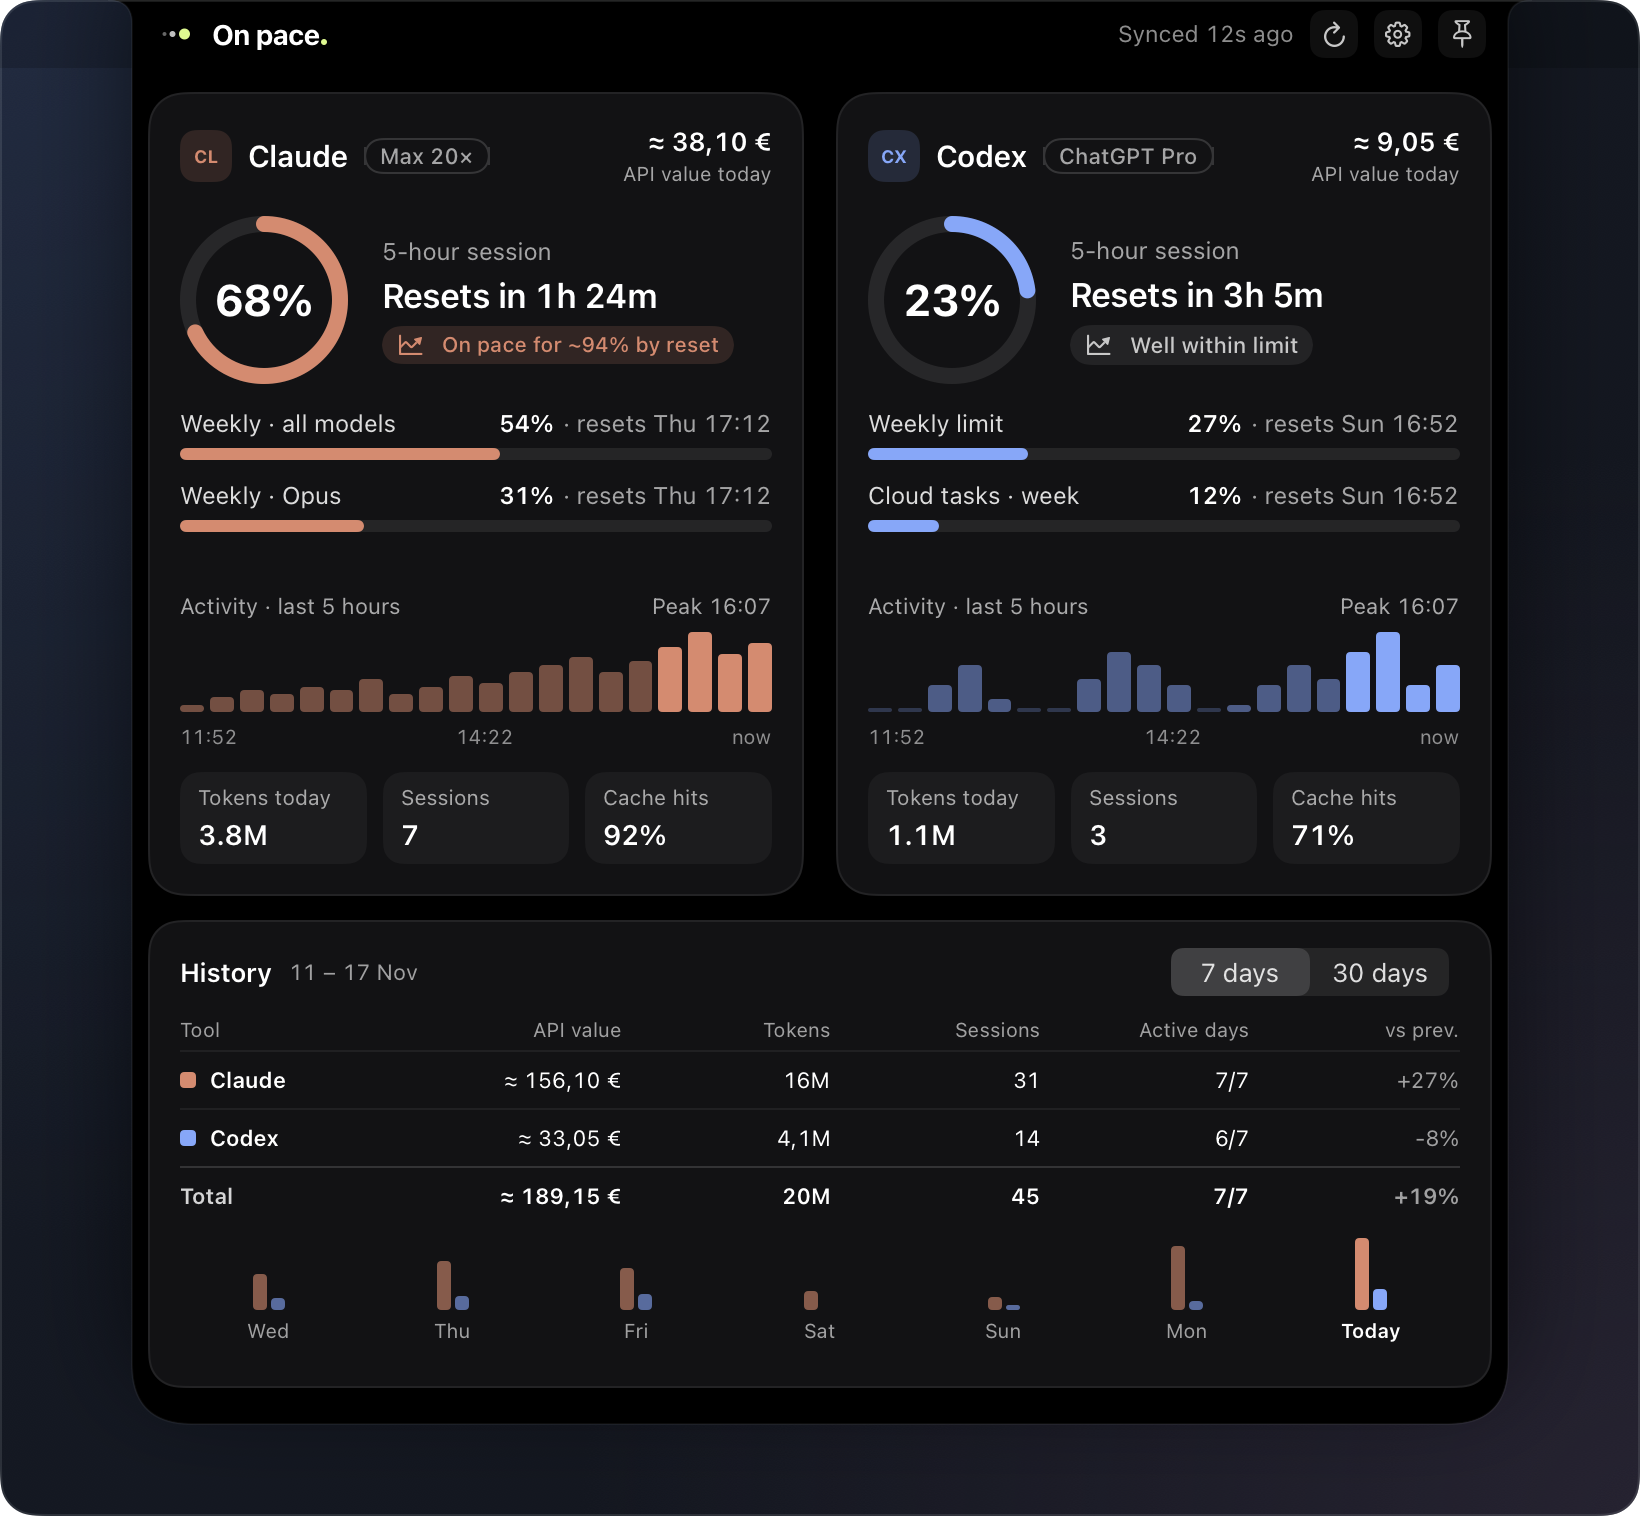
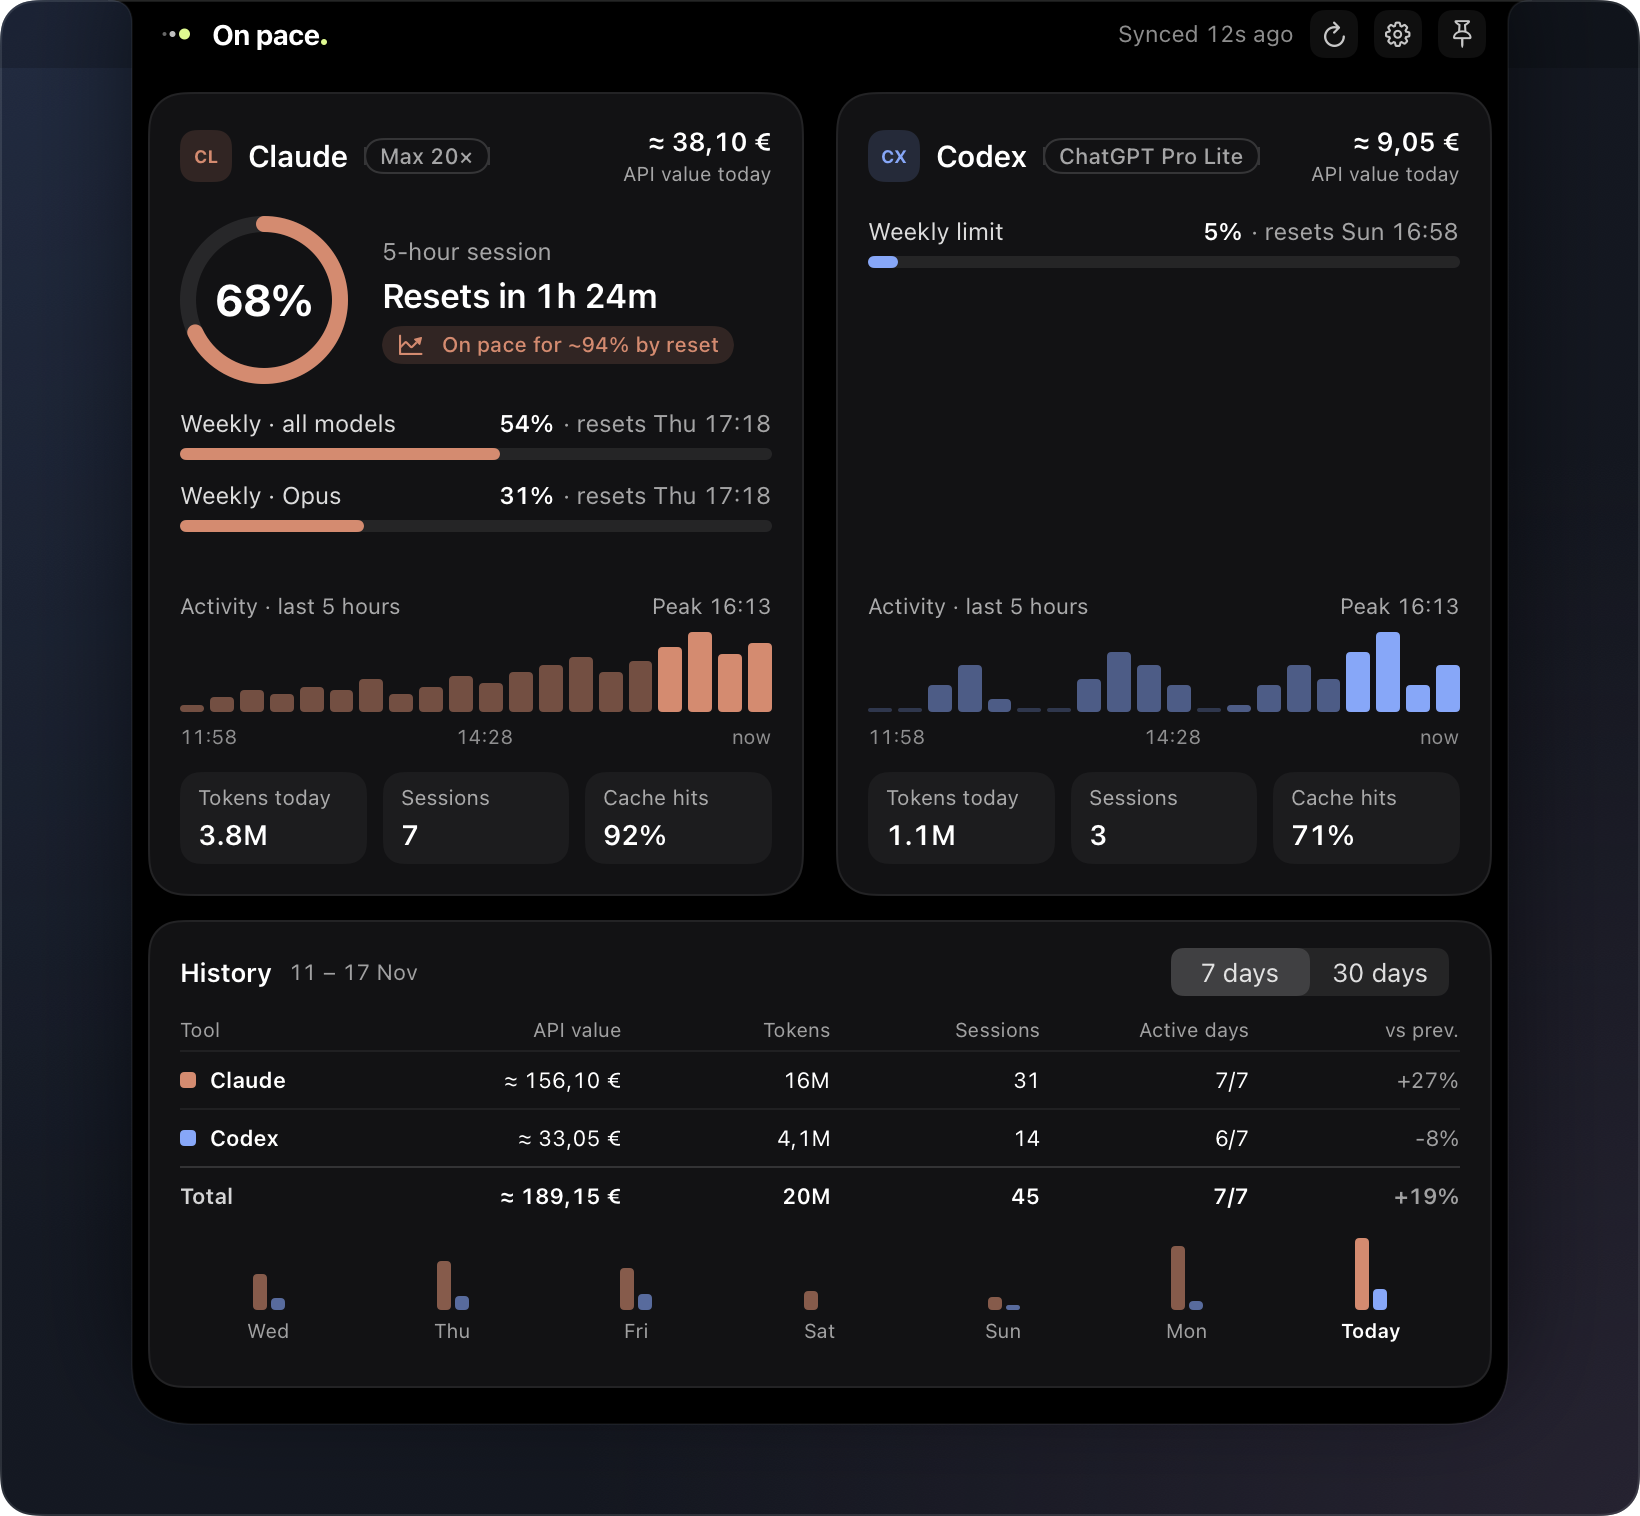
Refresh On pace. screenshots

diff --git a/README.md b/README.md
@@ -11,16 +11,16 @@
 ## See it in action
 
 <p align="center">
-  <img src="docs/images/on-pace-notch.png" width="820" alt="Collapsed notch showing Claude at 68% in coral and Codex at 23% in blue">
+  <img src="docs/images/on-pace-notch.png" width="820" alt="Collapsed notch showing Claude at 68% of its session limit and Codex at 5% of its weekly limit">
 </p>
 
 Hover over the notch to see reset times, recent activity, and usage history.
 
 <p align="center">
-  <img src="docs/images/on-pace-detail.png" width="820" alt="Expanded On pace. panel showing Claude and Codex session and weekly limits, activity charts, token counts, and seven-day history">
+  <img src="docs/images/on-pace-detail.png" width="820" alt="Expanded panel showing Claude session and weekly limits, a Codex weekly limit, activity charts, and seven-day history">
 </p>
 
-The screenshots show sample usage.
+These screenshots show sample usage with a Claude session limit and a Codex weekly limit.
 
 ## Install
 
